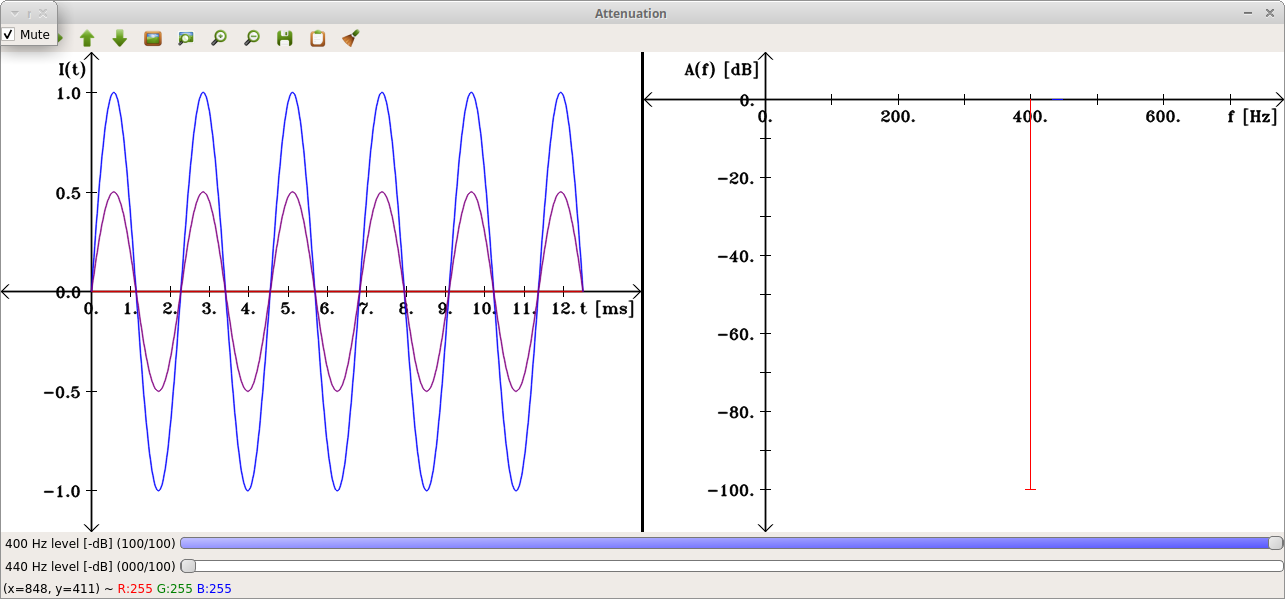
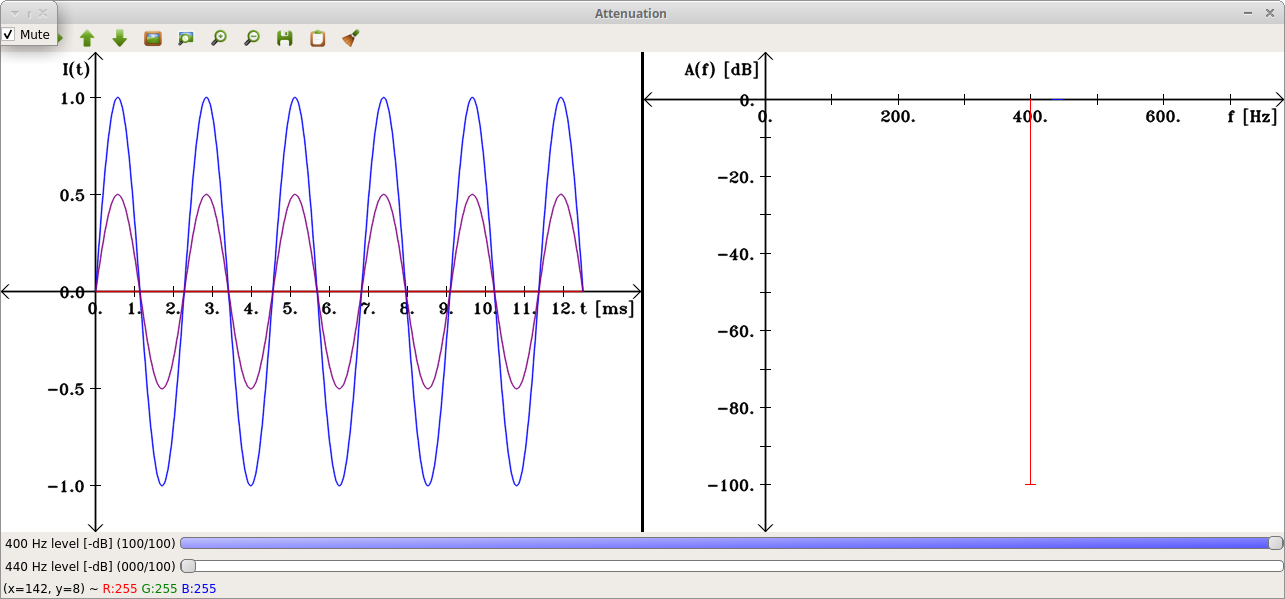
Fixed edge cases for plotting to stay within limits

diff --git a/common/imgutils/plot.cpp b/common/imgutils/plot.cpp
@@ -4,6 +4,7 @@
 
 #include <algorithm>
 #include <limits>
+#include <numeric>
 
 #include <opencv2/imgproc.hpp>
 
@@ -132,22 +133,36 @@ namespace imgutils
       const auto &max_tick = *min_max_x.second;
       const auto min_x = min_tick.position;
       const auto max_x = max_tick.position;
-      const bool any_label_visible = find_if(x_axis_ticks.begin(), x_axis_ticks.end(), [](const Tick &a) //Determine whether any label text is visible
-                                                                                         {
-                                                                                           return a.text_visible;
-                                                                                         }) != x_axis_ticks.end();
-      auto min_y_correction_px = tick_length / 2; //Tick length in both directions (half size each)
-      const auto max_y_correction_px = tick_length / 2;
-      if (any_label_visible)
+      if (min_tick.text_visible)
       {
         const auto min_tick_text_size = getTextSize(min_tick.text, label_font, label_font_size, 1, NULL);
+        const auto min_x_correction_px = min_tick_text_size.width / 2; //Consider width of first (centered) label
+        const coordinate_limits min_tick_limits(largest_coordinate, min_x, smallest_coordinate, min_x, min_x_correction_px, 0, 0, 0);
+        limits.push_back(min_tick_limits);
+      }
+      if (max_tick.text_visible)
+      {
         const auto max_tick_text_size = getTextSize(max_tick.text, label_font, label_font_size, 1, NULL);
-        const auto max_text_height = max(min_tick_text_size.height, max_tick_text_size.height);
-        min_y_correction_px += max_text_height;
-      }      
-      coordinate_limits x_ticks_limits(min_x, 0, max_x, 0, 0, min_y_correction_px, 0, max_y_correction_px);
+        const auto max_x_correction_px = max_tick_text_size.height / 2; //Consider width of last (centered) label
+        const coordinate_limits max_tick_limits(largest_coordinate, max_x, smallest_coordinate, max_x, 0, 0, max_x_correction_px, 0);
+        limits.push_back(max_tick_limits);
+      }
+
+      auto min_y_correction_px = tick_length / 2; //Tick length in both directions (half size each)
+      const auto max_y_correction_px = tick_length / 2;
+      const auto max_text_height = accumulate(y_axis_ticks.begin(), y_axis_ticks.end(), 0,
+                                             [](int max_text_height, const Tick &a)
+                                               {
+                                                 if (!a.text_visible) //Ignore tick if its text is invisible
+                                                   return max_text_height;
+                                                 const auto a_text_size = getTextSize(a.text, label_font, label_font_size, 1, NULL);
+                                                 return max(max_text_height, a_text_size.height);
+                                               }); 
+      min_y_correction_px += (max_text_height == 0 ? 0 : label_offset + max_text_height); //Consider height of highest tick label (plus offset)
+      const coordinate_limits x_ticks_limits(min_x, 0, max_x, 0, 0, min_y_correction_px, 0, max_y_correction_px);
       limits.push_back(x_ticks_limits);
     }
+    
     if (!y_axis_ticks.empty())
     {    
       const auto min_max_y = minmax_element(y_axis_ticks.begin(), y_axis_ticks.end(), [](const Tick &a, const Tick &b) //Find smallest and largest Y coordinates
@@ -158,20 +173,33 @@ namespace imgutils
       const auto &max_tick = *min_max_y.second;
       const auto min_y = min_tick.position;
       const auto max_y = max_tick.position;
-      auto min_x_correction_px = tick_length / 2; //Tick length in both directions (half size each)
-      const auto max_x_correction_px = tick_length / 2;
-      const bool any_label_visible = find_if(y_axis_ticks.begin(), y_axis_ticks.end(), [](const Tick &a) //Determine whether any label text is visible
-                                                                                         {
-                                                                                           return a.text_visible;
-                                                                                         }) != y_axis_ticks.end();
-      if (any_label_visible)
+      if (min_tick.text_visible)
       {
         const auto min_tick_text_size = getTextSize(min_tick.text, label_font, label_font_size, 1, NULL);
+        const auto min_y_correction_px = min_tick_text_size.height / 2; //Consider height of first (centered) label
+        const coordinate_limits min_tick_limits(largest_coordinate, min_y, smallest_coordinate, min_y, 0, min_y_correction_px, 0, 0);
+        limits.push_back(min_tick_limits);
+      }
+      if (max_tick.text_visible)
+      {
         const auto max_tick_text_size = getTextSize(max_tick.text, label_font, label_font_size, 1, NULL);
-        const auto max_text_width = max(min_tick_text_size.width, max_tick_text_size.width);
-        min_x_correction_px += max_text_width;
-      }   
-      coordinate_limits y_ticks_limits(0, min_y, 0, max_y, min_x_correction_px, 0, max_x_correction_px, 0);
+        const auto max_y_correction_px = max_tick_text_size.height / 2; //Consider height of last (centered) label
+        const coordinate_limits max_tick_limits(largest_coordinate, max_y, smallest_coordinate, max_y, 0, 0, 0, max_y_correction_px);
+        limits.push_back(max_tick_limits);
+      }
+      
+      auto min_x_correction_px = tick_length / 2; //Tick length in both directions (half size each)
+      const auto max_x_correction_px = tick_length / 2;
+      const auto max_text_width = accumulate(y_axis_ticks.begin(), y_axis_ticks.end(), 0,
+                                            [](int max_text_width, const Tick &a)
+                                              {
+                                                if (!a.text_visible) //Ignore tick if its text is invisible
+                                                  return max_text_width;
+                                                const auto a_text_size = getTextSize(a.text, label_font, label_font_size, 1, NULL);
+                                                return max(max_text_width, a_text_size.width);
+                                              }); 
+      min_x_correction_px += (max_text_width == 0 ? 0 : label_offset + max_text_width); //Consider width of longest tick label (plus offset)
+      const coordinate_limits y_ticks_limits(0, min_y, 0, max_y, min_x_correction_px, 0, max_x_correction_px, 0);
       limits.push_back(y_ticks_limits);
     }
   }
@@ -322,7 +350,7 @@ namespace imgutils
     
     SetVisibleRange(Point2d(current_limit.min_x, current_limit.min_y), Point2d(current_limit.max_x, current_limit.max_y));
     SetScalingFactor();
-    //assert(VerifyLimits(limits)); //TODO: Some edge cases still fail the verification
+    assert(VerifyLimits(limits));
   }
   
   void Plot::SetScalingFactor()

diff --git a/content-based_image_retrieval/histogram.cpp b/content-based_image_retrieval/histogram.cpp
@@ -73,7 +73,8 @@ static Mat PlotHistograms(const histogram_data &data)
     vector<float> histogram;
     GetChannelHistogram(plane, data.number_of_bins, histogram);
     const auto bin_size = 256.0 / data.number_of_bins; //Size of each bin
-    PointSet pointset(histogram, bin_size, color, false, false, data.image.rows / data.number_of_bins - 1); //Don't interconnect points, but draw rectangles (samples without sample bars and a width proportional to the bin size) instead
+    const auto bin_size_pixels = static_cast<int>(ceil(0.8 * data.image.rows / data.number_of_bins)) - 1; //TODO: Get a better estimate how much of the drawing surface is the range [0, 255]
+    PointSet pointset(histogram, bin_size, color, false, false, bin_size_pixels); //Don't interconnect points, but draw rectangles (samples without sample bars and a width proportional to the bin size) instead
     histograms.push_back(pointset);
   }
   Plot plot(histograms);
